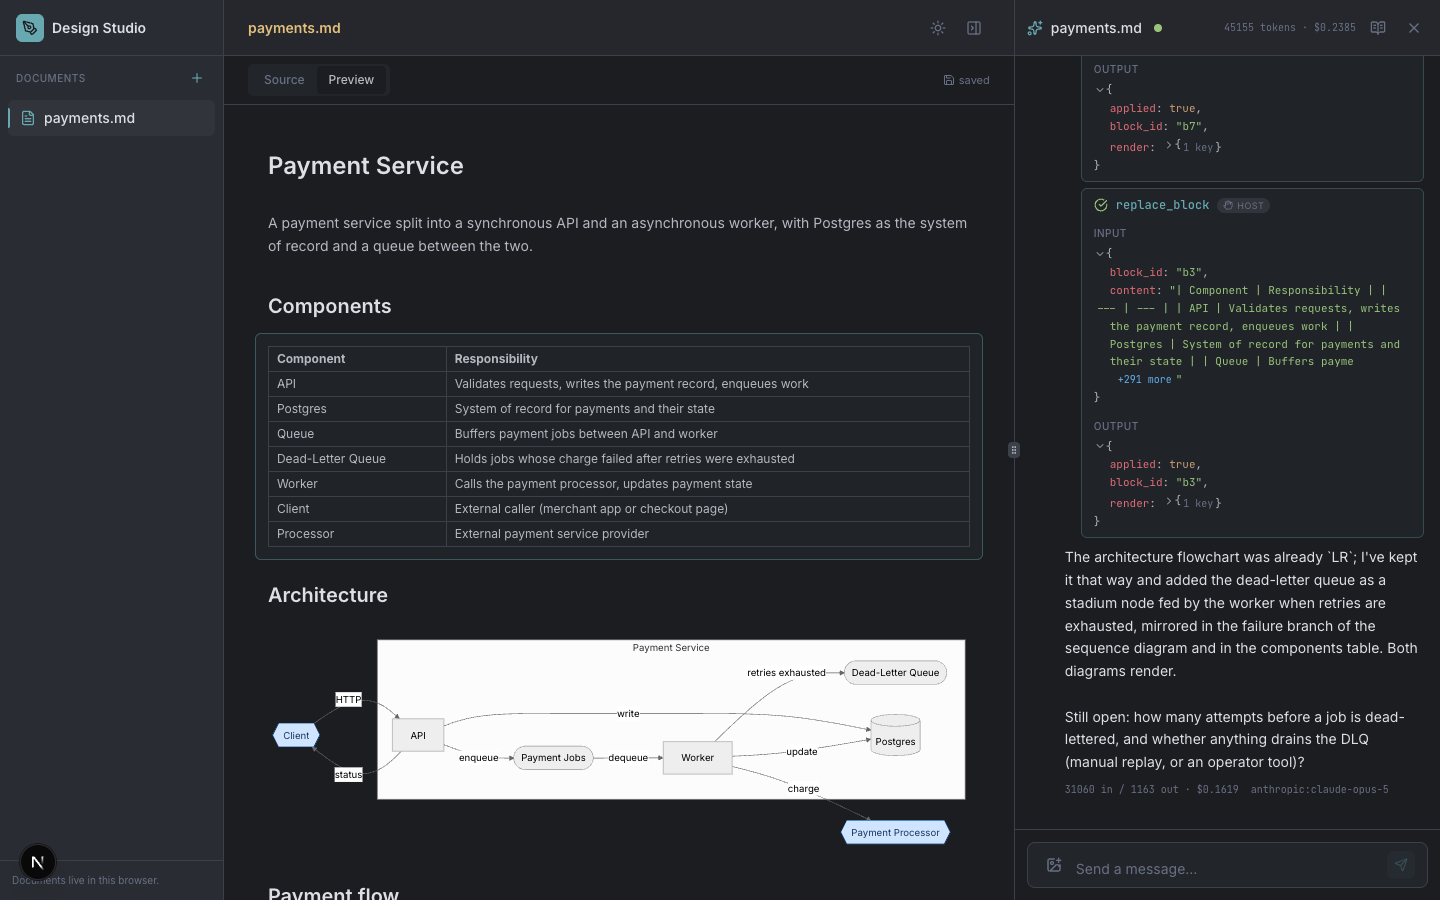
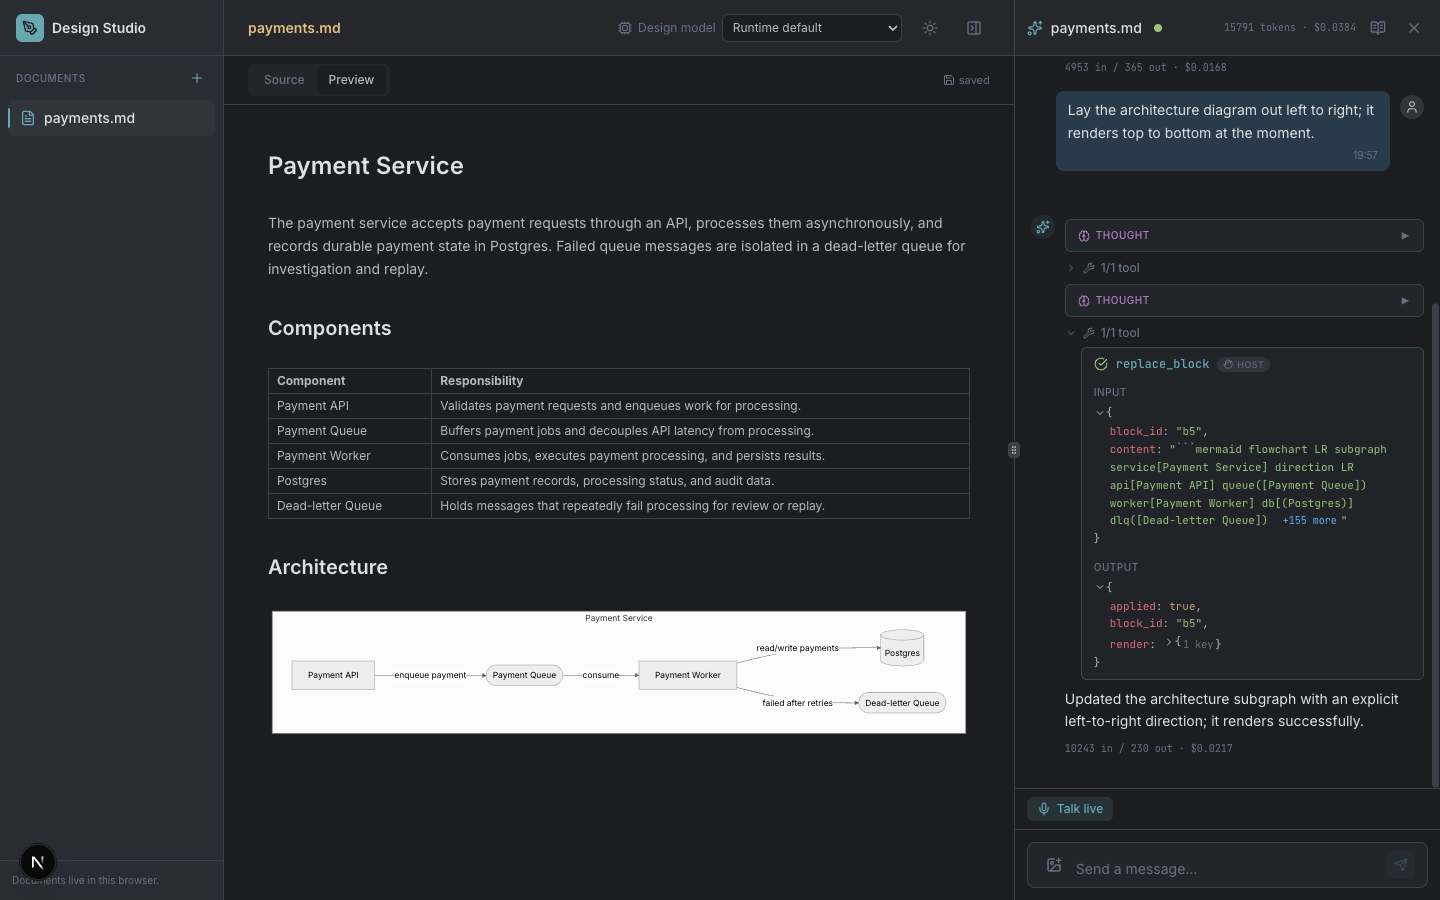
docs: readiness pass before the showcase recording (#11)
Retake public/screenshot.png on the current UI (Design model control, Talk live, a document with a table and a left-to-right diagram) and fix the three README lines a fresh read found stale after #6, #8 and #9: the TypeScript line count, the machines and lib rows of the layout table, and the provider list. The README recipe was run from a fresh clone with the PyPI wheel assistant-runtime[voice]==0.2.0, one OpenAI key and ASSISTANT__PROFILES; nothing broke. Closes #10.

diff --git a/README.md b/README.md
@@ -14,7 +14,7 @@ runtime owns the conversation, calls the model and streams the result.
 The application describes what is on screen and performs the actions the
 model asks for. Design Studio is a complete, deliberately small example
 of the application half of that arrangement: one screen, no accounts, no
-database, no server of its own, about 6,000 lines of TypeScript.
+database, no server of its own, about 8,500 lines of TypeScript.
 
 ![The studio: the document list, the Markdown and Mermaid preview, and the assistant panel](public/screenshot.png)
 
@@ -59,7 +59,8 @@ tick a box.
 
 You need [bun](https://bun.sh), a way to install a Python command line tool
 ([uv](https://docs.astral.sh/uv/) or pip), and an API key for one of the
-providers the runtime supports (Anthropic, OpenAI, Google or OpenRouter).
+providers the runtime supports (Anthropic, OpenAI, Google, OpenRouter or
+Cerebras).
 
 The runtime is a separate process. You install it once and run it beside
 the studio.
@@ -164,10 +165,10 @@ hold every transition and side effect, and `lib/` is pure functions.
 
 | Directory | What lives there |
 |---|---|
-| `machines/` | `appMachine` (root), `filesMachine`, `documentMachine`, `assistantMachine` |
+| `machines/` | `appMachine` (root), `filesMachine`, `documentMachine`, `assistantMachine`, `artifactsMachine`; `voiceMachine` and `designControllerMachine` for live calls |
 | `hooks/` | the bridge between machines and components |
 | `components/` | `assistant/`, `document/`, `layout/`, `ui/` |
-| `lib/` | block parsing and edits, host actions, stream folding, host context, the runtime client, IndexedDB, Mermaid |
+| `lib/` | block parsing and edits, host actions, stream folding, host context, the runtime client, IndexedDB, Mermaid, the voice and decision transports |
 | `types/` | Zod schemas for every wire shape |
 | `profiles/` | the assistant profile and its artifact texts |
 
